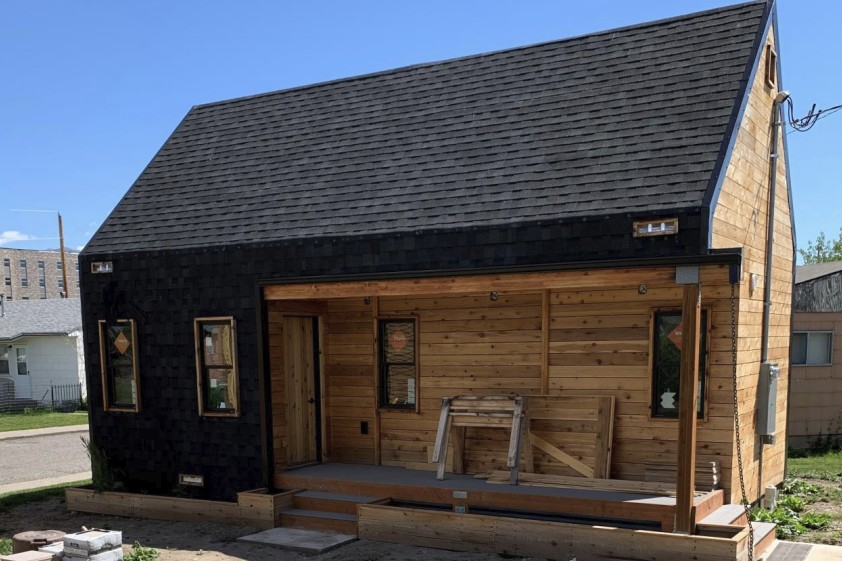
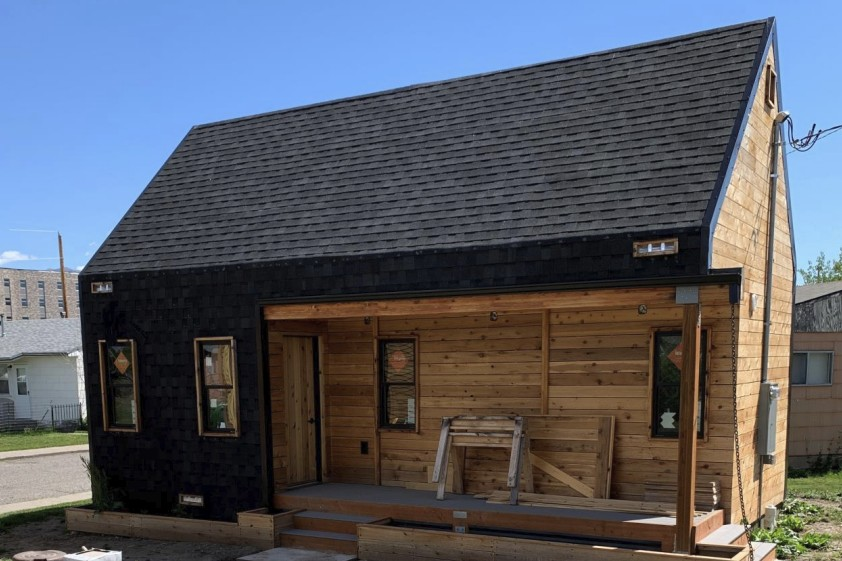
arch edits and pub speaking

diff --git a/architecture.html b/architecture.html
@@ -180,7 +180,7 @@
     </section>
     <section class="about project" id="hrdc-tiny-home-village">
       <figure class="about-image">
-        <a href="hrdc-tiny-home-village.html" aria-label="Open the HRDC Tiny Home Village Prototype, 2017 book"><img src="images/hrdc-tiny-home-village-cover.jpg" alt="Tiny home with a dark upper wall, cedar siding and green door"></a>
+        <a href="hrdc-tiny-home-village.html" aria-label="Open the HRDC Tiny Home Village Prototype, 2017 book"><img src="images/hrdc-tiny-home-village-cover.jpg" alt="Tiny home with a dark shingled roof and cedar porch"></a>
         <a class="book-btn" href="hrdc-tiny-home-village.html">Open booklet</a>
       </figure>
       <div class="about-text">
@@ -202,9 +202,9 @@
       </figure>
       <div class="about-text">
         <h2 class="exact">Belgrade Library Renovation, 2016</h2>
-        <p class="desc">In 2015, the Belgrade Community Library was named the Best Small Library in America by Library Journal. Katana was one of eight Montana State University architecture students who worked on the Community Design Center (CDC) plans for the Belgrade Community Library expansion. Alongside her classmates, she built the conceptual models and schematic drawings that helped kick off the community&rsquo;s fundraising. That student vision laid the groundwork for the $22 million library and community center now open at 205 E. Main St. The architecture firm 45 Arch carried out the renovation and expansion in 2025.</p>
+        <p class="desc">In fall 2015, the Belgrade Community Library was named the &ldquo;Best Small Library in America&rdquo; by Library Journal, an award cosponsored by the Bill and Melinda Gates Foundation. Dr. Tom McNab and students from the Montana State University Community Design Center (CDC) collaborated with library staff and Belgrade citizens to envision, research and design a building to meet the growing demand for library services west of Bozeman. Katana was one of eight architecture students who worked on the CDC plans. Alongside their classmates, they built the conceptual models and schematic drawings that helped kick off the community&rsquo;s fundraising. That student vision laid the groundwork for the $22 million library and community center now open at 205 E. Main St. The architecture firm 45 Arch carried out the renovation and expansion in 2025.</p>
         <p class="links"><a class="grey" href="https://www.montana.edu/news/16738/msu-architecture-students-pave-the-way-for-belgrade-library-s-expansion" target="_blank" rel="noopener">MSU News</a><a class="grey" href="https://www.libraryjournal.com/story/the-loaves-and-fishes-library-best-small-library-in-america-2015" target="_blank" rel="noopener">Library Journal I</a><a class="grey" href="https://www.libraryjournal.com/story/small-libraries-big-impact-award-retrospective-2005-2015" target="_blank" rel="noopener">Library Journal II</a></p>
-        <div class="links links2"><a class="grey" href="https://www.45arch.com/educational/belgrade-library-%2B-community-center" target="_blank" rel="noopener">45 Arch Renovation</a>
+        <div class="links links2"><a class="grey" href="https://www.45arch.com/educational/belgrade-library-%2B-community-center" target="_blank" rel="noopener">45 Arch Renovation</a><a class="grey" href="https://bozemanmagazine.com/articles/2017/11/01/102729-learn-local-at-the-belgrade-community-library" target="_blank" rel="noopener">Bozeman Magazine</a>
         <details class="credits"><summary class="grey">Credits</summary>
           <div class="credits-box" role="dialog" aria-label="Project credits">
             <p><b>PROJECT:</b> Belgrade Community Library Expansion</p>

diff --git a/index.html b/index.html
@@ -181,7 +181,7 @@
     </section>
     <section class="about project" id="hrdc-tiny-home-village">
       <figure class="about-image">
-        <a href="hrdc-tiny-home-village.html" aria-label="Open the HRDC Tiny Home Village Prototype, 2017 book"><img src="images/hrdc-tiny-home-village-cover.jpg" alt="Tiny home with a dark upper wall, cedar siding and green door"></a>
+        <a href="hrdc-tiny-home-village.html" aria-label="Open the HRDC Tiny Home Village Prototype, 2017 book"><img src="images/hrdc-tiny-home-village-cover.jpg" alt="Tiny home with a dark shingled roof and cedar porch"></a>
         <a class="book-btn" href="hrdc-tiny-home-village.html">Open booklet</a>
       </figure>
       <div class="about-text">
@@ -203,9 +203,9 @@
       </figure>
       <div class="about-text">
         <h2 class="exact">Belgrade Library Renovation, 2016</h2>
-        <p class="desc">In 2015, the Belgrade Community Library was named the Best Small Library in America by Library Journal. Katana was one of eight Montana State University architecture students who worked on the Community Design Center (CDC) plans for the Belgrade Community Library expansion. Alongside her classmates, she built the conceptual models and schematic drawings that helped kick off the community&rsquo;s fundraising. That student vision laid the groundwork for the $22 million library and community center now open at 205 E. Main St. The architecture firm 45 Arch carried out the renovation and expansion in 2025.</p>
+        <p class="desc">In fall 2015, the Belgrade Community Library was named the &ldquo;Best Small Library in America&rdquo; by Library Journal, an award cosponsored by the Bill and Melinda Gates Foundation. Dr. Tom McNab and students from the Montana State University Community Design Center (CDC) collaborated with library staff and Belgrade citizens to envision, research and design a building to meet the growing demand for library services west of Bozeman. Katana was one of eight architecture students who worked on the CDC plans. Alongside their classmates, they built the conceptual models and schematic drawings that helped kick off the community&rsquo;s fundraising. That student vision laid the groundwork for the $22 million library and community center now open at 205 E. Main St. The architecture firm 45 Arch carried out the renovation and expansion in 2025.</p>
         <p class="links"><a class="grey" href="https://www.montana.edu/news/16738/msu-architecture-students-pave-the-way-for-belgrade-library-s-expansion" target="_blank" rel="noopener">MSU News</a><a class="grey" href="https://www.libraryjournal.com/story/the-loaves-and-fishes-library-best-small-library-in-america-2015" target="_blank" rel="noopener">Library Journal I</a><a class="grey" href="https://www.libraryjournal.com/story/small-libraries-big-impact-award-retrospective-2005-2015" target="_blank" rel="noopener">Library Journal II</a></p>
-        <div class="links links2"><a class="grey" href="https://www.45arch.com/educational/belgrade-library-%2B-community-center" target="_blank" rel="noopener">45 Arch Renovation</a>
+        <div class="links links2"><a class="grey" href="https://www.45arch.com/educational/belgrade-library-%2B-community-center" target="_blank" rel="noopener">45 Arch Renovation</a><a class="grey" href="https://bozemanmagazine.com/articles/2017/11/01/102729-learn-local-at-the-belgrade-community-library" target="_blank" rel="noopener">Bozeman Magazine</a>
         <details class="credits"><summary class="grey">Credits</summary>
           <div class="credits-box" role="dialog" aria-label="Project credits">
             <p><b>PROJECT:</b> Belgrade Community Library Expansion</p>

diff --git a/cv.html b/cv.html
@@ -95,6 +95,7 @@
         <h2>Public Speaking</h2>
         <ul class="cv-list">
         <li>2022 &ndash; Accepted to speak on the <a class="grey" href="https://www.iafastro.org/news/the-global-expert-group-on-sustainable-lunar-activities-gegsla.html" target="_blank" rel="noopener">Global Expert Group on Sustainable Lunar Activities (GEGSLA)</a> panel as Kate Calderwood (Moon Village Association) at the <a class="grey" href="https://isdc2022.nss.org/wp-content/uploads/2022/05/ISDC-2022-Sunday-SCHEDULE-5-26-22.pdf" target="_blank" rel="noopener">40th Annual International Space Development Conference (ISDC)</a>, the annual flagship convention organized by the <a class="grey" href="https://nss.org/" target="_blank" rel="noopener">National Space Society (NSS)</a>. For over four decades, it has served as a premier global hub connecting NASA astronauts, aerospace executives, scientists, architects, and students to discuss space settlement and the NewSpace economy. Accepted as an official session presenter for the Lunar Base Development tracks during the national aerospace design cycles.</li>
+                <li>2017 &ndash; Spoke with Dr. Tom McNab and fellow MSU students at <a class="grey" href="https://www.montana.edu/calendar/events/23192" target="_blank" rel="noopener">&ldquo;Architecture Students: At Work in the Real World&rdquo;</a>, an MSU Wonderlust, Bobcat Parent &amp; Family Programs and Alumni Association event at the Museum of the Rockies (Hager Auditorium, October 6, 2017), presenting the Community Design Center&rsquo;s student-designed plans for the Belgrade Community Library (named &ldquo;Best Small Library in America&rdquo; in 2015). The presentations were meant to kick off fundraising and bring library staff, Board members, citizens and other stakeholders onto the same page. That vision grew into the $22 million library and community center now open in Belgrade, Montana.</li>
         </ul>
       </section>
 

diff --git a/hrdc-tiny-home-village.html b/hrdc-tiny-home-village.html
@@ -65,10 +65,10 @@
       <div class="bookbar"><a class="book-back" href="architecture.html#hrdc-tiny-home-village">&larr; Back</a><span class="book-title">HRDC Tiny Home Village Prototype, 2017 (project 451 Arch)</span></div>
     </div></div>
     <ol class="book-pages">
+        <li><img src="images/hrdc-tiny-home-village-04.jpg" alt="A second tiny home with a dark shingled roof and cedar porch, during construction"></li>
         <li><img src="images/hrdc-tiny-home-village-01.jpg" alt="Tiny home with a dark upper wall, cedar siding, green door and front deck"></li>
         <li><img src="images/hrdc-tiny-home-village-02.jpg" alt="The tiny home from the side, with a perforated metal screen, green door and planter beds"></li>
         <li><img src="images/hrdc-tiny-home-village-03.jpg" alt="Inside the tiny home: a sleeping nook and table beside a window, and the kitchen with shelves, sink and refrigerator"></li>
-        <li><img src="images/hrdc-tiny-home-village-04.jpg" alt="A second tiny home with a dark shingled roof and cedar porch, during construction"></li>
     </ol>
   </main>
 
